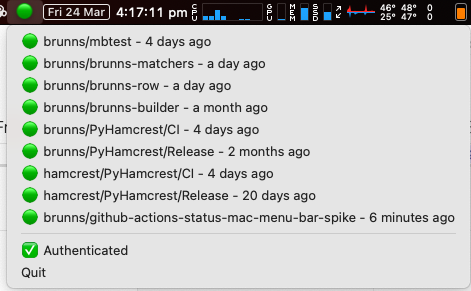
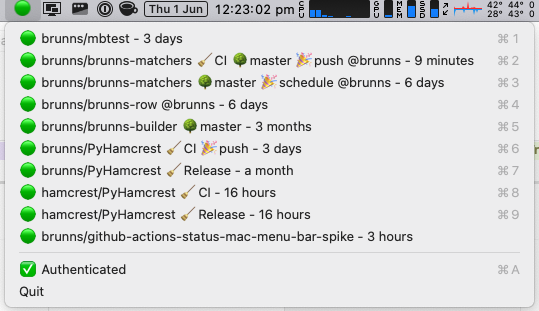
Allow specific actors, branches, or events to be monitored. Also add a couple more actions.

Changed region(s): [[0.0, 0.0, 1.0, 1.0], [0.9214, 0.8351, 0.9512, 0.8969]]

diff --git a/status.py b/status.py
@@ -52,6 +52,14 @@ DEFAULT_CONFIG = json.dumps(
     {
         "repos": [
             {"owner": "brunns", "repo": "mbtest"},
+            {
+                "owner": "brunns",
+                "repo": "brunns-matchers",
+                "workflow": "ci.yml",
+                "actor": "brunns",
+                "branch": "master",
+                "event": "push",
+            },
             {"owner": "hamcrest", "repo": "PyHamcrest", "workflow": "main.yml"},
         ],
         "interval": 60,
@@ -128,12 +136,50 @@ class GitHubAuthenticationException(Exception):
 
 @dataclass_json(undefined=Undefined.EXCLUDE)
 @dataclass(frozen=True)
-class WorkflowRun:
+class Actor:
+    login: str
+    type: str
+    site_admin: bool
+    html_url: furl = field(metadata=config(decoder=furl))
+
+
+@dataclass_json(undefined=Undefined.EXCLUDE)
+@dataclass(frozen=True)
+class Commit:
+    id: str
+    message: str
+    timestamp: arrow.Arrow = field(metadata=config(decoder=lambda d: arrow.get(d).to(LOCALTZ)))
+
+
+@dataclass_json(undefined=Undefined.EXCLUDE)
+@dataclass(frozen=True)
+class Repository:
+    id: str
     name: str
+    owner: Actor
+    description: str
+    html_url: furl = field(metadata=config(decoder=furl))
+
+
+@dataclass_json(undefined=Undefined.EXCLUDE)
+@dataclass(frozen=True)
+class WorkflowRun:
+    """Deserialised GutHub Actions Workflow Run.
+    See https://docs.github.com/en/rest/actions/workflow-runs?apiVersion=2022-11-28
+    """
+
+    id: str
+    name: str
+    actor: Actor
+    triggering_actor: Actor
+    event: str
     status: str
     conclusion: str
+    head_commit: Commit
+    repository: Repository
     updated_at: arrow.Arrow = field(metadata=config(decoder=lambda d: arrow.get(d).to(LOCALTZ)))
     html_url: furl = field(metadata=config(decoder=furl))
+    rerun_url: furl = field(metadata=config(decoder=furl))
 
 
 @dataclass_json
@@ -142,6 +188,9 @@ class Repo:
     owner: str
     repo: str
     workflow: Optional[str]
+    actor: Optional[str]
+    branch: Optional[str]
+    event: Optional[str]
     menu_item: rumps.MenuItem = field(
         repr=False, metadata=config(encoder=str, exclude=Exclude.ALWAYS)
     )
@@ -152,11 +201,21 @@ class Repo:
     etag: Optional[str] = None
 
     @classmethod
-    def build(cls, owner, repo, auth_holder, workflow=None, key=None) -> "Repo":
+    def build(
+        cls,
+        owner: str,
+        repo: str,
+        auth_holder: "AuthHolder",
+        workflow: Optional[str] = None,
+        actor: Optional[str] = None,
+        branch: Optional[str] = None,
+        event: Optional[str] = None,
+        key: Optional[str] = None,
+    ) -> "Repo":
         menu_item = rumps.MenuItem(
             f"{owner}/{repo}/{workflow}" if workflow else f"{owner}/{repo}", key=key
         )
-        repo = cls(owner, repo, workflow, menu_item, auth_holder)
+        repo = cls(owner, repo, workflow, actor, branch, event, menu_item, auth_holder)
         repo.menu_item.set_callback(repo.on_click)
         return repo
 
@@ -186,28 +245,31 @@ class Repo:
             self.etag = None
 
         if self.status != previous_status:
-            logger.info(
-                "Repo status",
-                extra={
-                    "owner": self.owner,
-                    "repo": self.repo,
-                    "workflow": self.workflow,
-                    "status": self.status,
-                },
-            )
+            logger.info("repo status changed", extra={"repo": self.to_dict()})
 
-        updated_at_formatted = (
+        self.menu_item.title = self.menu_title
+
+    @property
+    def menu_title(self) -> str:
+        t = [f"{self.status.value} {self.owner}/{self.repo}"]
+        if self.workflow:
+            t.append(f" 🧹{self.workflow_name}")
+        if self.branch:
+            t.append(f" 🌳{self.branch}")
+        if self.event:
+            t.append(f" 🎉{self.event}")
+        if self.actor:
+            t.append(f" @{self.actor}")
+        t += [
+            " - ",
             humanize.naturaldelta(arrow.now() - self.last_run.updated_at)
             if self.last_run
-            else "never"
-        )
-        self.menu_item.title = (
-            f"{self.status.value} {self.owner}/{self.repo}/{self.workflow_name} - {updated_at_formatted} ago"
-            if self.workflow
-            else f"{self.status.value} {self.owner}/{self.repo} - {updated_at_formatted} ago"
-        )
+            else "never",
+        ]
+        return "".join(t)
 
-    async def get_new_runs(self, session: RetryClient) -> Sequence[WorkflowRun]:  # async
+    async def get_new_runs(self, session: RetryClient) -> Sequence[WorkflowRun]:
+        """See https://docs.github.com/en/rest/actions/workflow-runs?apiVersion=2022-11-28#list-workflow-runs-for-a-repository"""
         headers = {
             k: v
             for k, v in [
@@ -267,6 +329,12 @@ class Repo:
         url = url / "runs"
 
         url.args["per_page"] = per_page
+        if self.actor:
+            url.args["actor"] = self.actor
+        if self.actor:
+            url.args["branch"] = self.branch
+        if self.actor:
+            url.args["event"] = self.event
         return url
 
     @cached_property
@@ -275,18 +343,25 @@ class Repo:
 
     def on_click(self, sender: rumps.MenuItem) -> None:
         event = Event.get_event()
-        logger.debug("clicked", extra={"repo": self, "event": asdict(event)})
+        logger.debug("clicked", extra={"repo": self.to_dict(), "event": asdict(event)})
         if event.control:
-            self.rerun_failed()
+            logger.info("rerunning failed jobs")
+            self.rerun_failed_jobs()
+        elif event.option:
+            logger.info("opening actor", extra={"url": self.last_run.actor.html_url})
+            webbrowser.open(self.last_run.actor.html_url.url)
+        elif event.command:
+            url = self.repo_url / "commit" / self.last_run.head_commit.id
+            logger.info("opening commit", extra={"url": url})
+            webbrowser.open(url.url)
         elif event.type == EventType.right:
-            logger.debug("opening repo", extra={"url": self.repo_url})
+            logger.info("opening repo", extra={"url": self.repo_url})
             webbrowser.open(self.repo_url.url)
         elif self.last_run.html_url:
-            logger.debug("opening last run", extra={"url": self.last_run.html_url})
+            logger.info("opening last workflow run", extra={"url": self.last_run.html_url})
             webbrowser.open(self.last_run.html_url.url)
 
-    def rerun_failed(self) -> None:
-        logger.debug("rerunning failed")
+    def rerun_failed_jobs(self) -> None:
         if self.status == Status.FAILED:
             url = (
                 furl("https://api.github.com/repos/")
@@ -296,7 +371,6 @@ class Repo:
                 / str(self.last_run.id)
                 / "rerun-failed-jobs"
             )
-            logger.debug("posting to", extra={"url": url})
             resp = requests.post(
                 url,
                 headers={
@@ -308,8 +382,9 @@ class Repo:
                 },
             )
             logger.debug("got", extra={"response": resp})
+            resp.raise_for_status()
         else:
-            logger.debug("No failure to re-run", extra={"repo": self.to_dict()})
+            logger.info("no workflow failure to re-run", extra={"repo": self.to_dict()})
 
     @staticmethod
     def _log_rate_limit_stats(resp: ClientResponse) -> None:
@@ -395,11 +470,8 @@ class GithubActionsStatusChecker:
 
     async def _check_all(self):
         async with RetryClient(retry_options=(FibonacciRetry(attempts=5))) as session:
-            # adapter = HTTPAdapter(max_retries=3)  # TODO retries
-            # with requests.Session() as session:  # aiohttp.ClientSession
-            #     session.mount("https://", adapter)
             tasks = []
-            for repo in self.app.repos:  # asyncio.run, await asyncio.gather
+            for repo in self.app.repos:
                 task = asyncio.ensure_future(repo.check(session))
                 tasks.append(task)
 

diff --git a/README.md b/README.md
@@ -21,6 +21,12 @@ some other way. The simplest might be to create `.envrc` as normal, and to manua
 
 If you'd prefer not to use [`xc` ](https://xcfile.dev/) as a task runner, [all command line tasks are defined below](#Tasks) and can be run from the command line.
 
+## Usage
+
+Left-clicking will take you to the last workflow run. Right-clicking takes you to the main page for the repository. 
+Control-clicking will re-run failed jobs, if any. Option-clicking takes you to the actor who triggered the run, and 
+command-clicking takes you to the commit which triggered the run.
+
 ## GitHub authentication
 
 To run or build this application, you will need to register a
@@ -84,7 +90,10 @@ ditto -c -k --sequesterRsrc --keepParent "dist/GitHub Actions Status.app" "dist/
 
 If running from the command line, configuration can be found in `./config.json`. When running as an app,
 configuration will be found in `~/.github_actions_status/config.json` (which will be created on the first
-run). Edit this file to specify repositories to monitor (with specific workflows if desired), the check interval (in 
-seconds), and some logging details.
+run). Edit this file to specify repositories to monitor, the check interval (in seconds), and some logging details. 
+
+For repositories, `owner` and `repo` must be configured. In addition, a specific workflow (filename), actor, 
+[event](https://docs.github.com/en/actions/using-workflows/events-that-trigger-workflows) and branch can be specified 
+in any combination.
 
 Thanks to [Freja Brunning](https://twitter.com/freja_brunning) for the icon.
